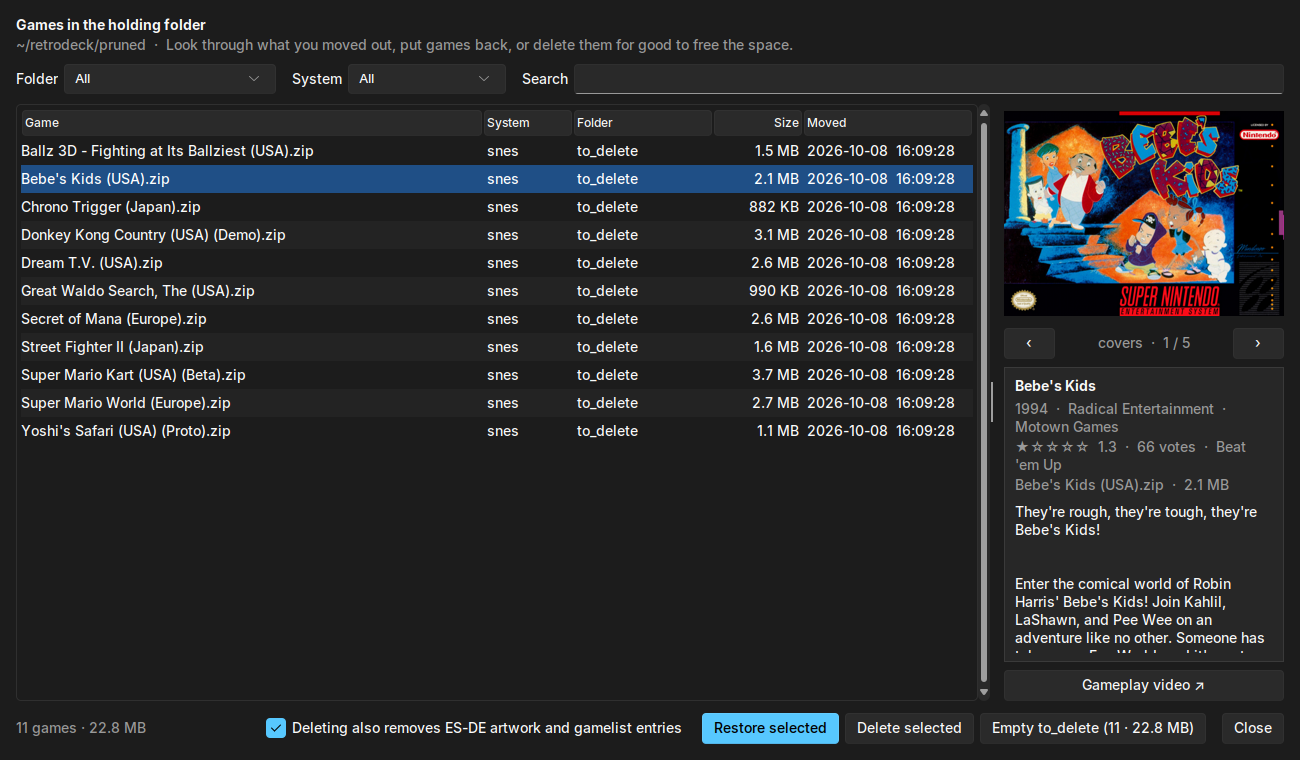
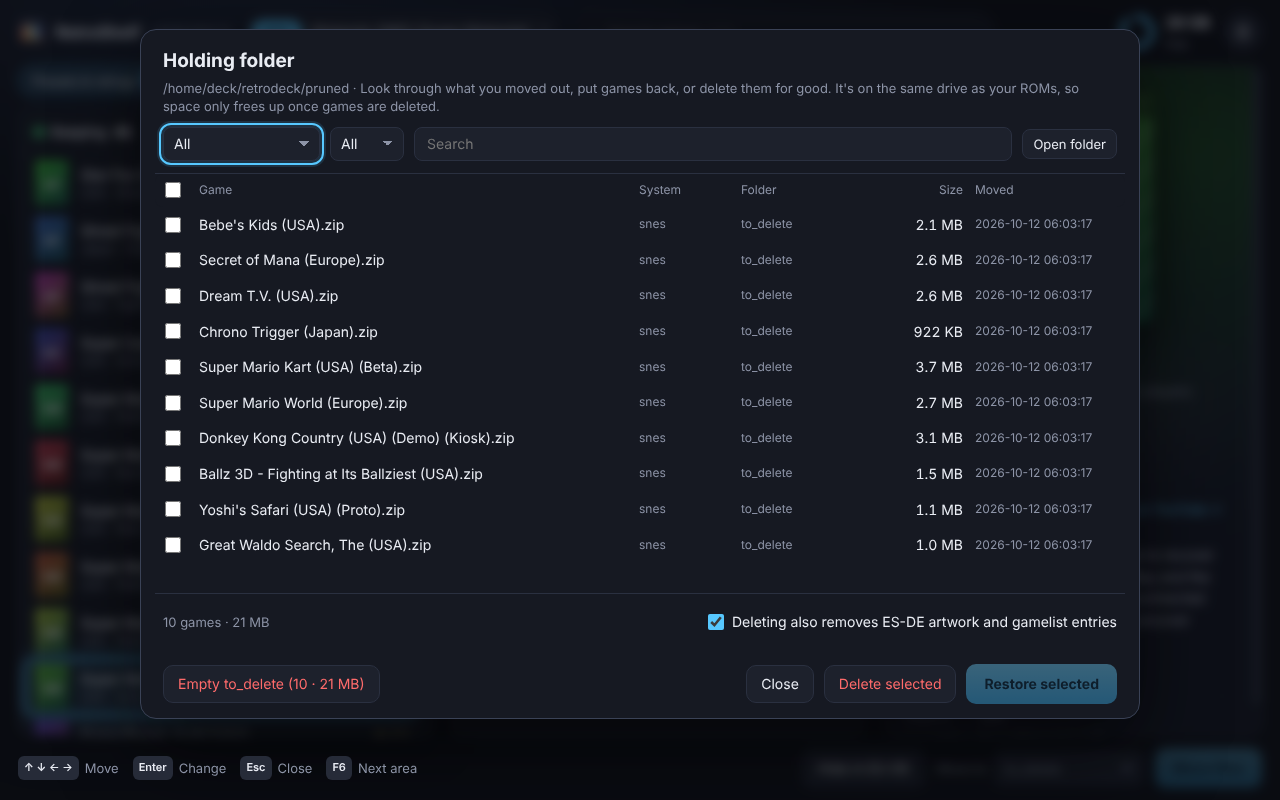
README: new screenshots of the app and an up-to-date description
Retakes every README screenshot from the app (they showed the old Tk
window) on a 52-game SNES demo library at Steam Deck size, and adds
Review, Import ROMs and Storage overview. Menu paths in the README now
match the regrouped ☰ menu, the requirements say what the app needs, and
app/README.md no longer calls the app unreleased. The Storage overview's
own text pointed at a Tools menu that no longer exists.

Claude-Session: https://claude.ai/code/session_0199qZRYXhb185Wx89AetE21

diff --git a/app/renderer/library-tools.js b/app/renderer/library-tools.js
@@ -72,7 +72,7 @@ async function openStorage() {
     const total = T.systems.reduce((n, s) => n + s.total, 0) || 1;
     $("st-systems").innerHTML = `<div class="trow head"><span>System</span><span class="num">Games</span><span class="num">Games' size</span>
       <span class="num" title="ES-DE's artwork, videos and manuals for the system">Media</span><span class="num">Total</span><span></span>
-      <span class="num" title="Disc images Tools → Compress games would turn into .chd / .rvz (usually a third to a half smaller)">Could compress</span></div>` +
+      <span class="num" title="Disc images ☰ → Library → This console → Compress games would turn into .chd / .rvz (usually a third to a half smaller)">Could compress</span></div>` +
       (T.systems.length ? T.systems.map((s) => `<div class="trow${s.code === T.sel ? " on" : ""}" data-code="${esc(s.code)}">
         <span class="nm" title="${esc(s.label)}">${esc(s.label)}</span><span class="num">${s.games.toLocaleString()}</span>
         <span class="num">${human(s.size)}</span><span class="num">${s.media ? human(s.media) : "—"}</span><span class="num">${human(s.total)}</span>
@@ -125,7 +125,7 @@ async function openStorage() {
       $("st-systems").querySelector(".trow.on")?.scrollIntoView({ block: "nearest" });
       const sum = (f) => T.systems.reduce((n, s) => n + s[f], 0), comp = sum("compressible");
       $("st-status").textContent = `${plural(T.systems.length, "system")}: ${human(sum("size"))} of games and ${human(sum("media"))} of media.` +
-        (comp ? ` ${human(comp)} of disc images could be compressed (Tools → Compress games).` : "");
+        (comp ? ` ${human(comp)} of disc images could be compressed (☰ → Library → This console → Compress games).` : "");
       const d = r.drive;
       $("st-drive").textContent = d && d.total ? `The drive with your ROMs: ${human(d.free)} free of ${human(d.total)} (${Math.round(100 * (d.total - d.free) / d.total)}% used)` : "";
       $("st-drive-bar").style.width = d && d.total ? `${100 * (d.total - d.free) / d.total}%` : "0";

diff --git a/README.md b/README.md
@@ -2,14 +2,16 @@
 
 # RetroShelf
 
-A desktop tool for tidying up an [ES-DE](https://es-de.org/) / [RetroDECK](https://retrodeck.net/) game library on
-Linux or Windows. Point it at your `roms` folder, pick a system, and it helps you decide what to keep, fills in metadata and
-artwork, gives your files consistent names, and installs PS3 / PS Vita / PSP games through NoPayStation.
+A desktop app for tidying up an [ES-DE](https://es-de.org/) / [RetroDECK](https://retrodeck.net/) game library on
+Linux, Steam Deck or Windows. Point it at your `roms` folder, pick a system, and it helps you decide what to keep, fills
+in metadata and artwork, gives your files consistent names, imports games from archives or a home server, and installs
+PS3 / PS Vita / PSP games through NoPayStation and free homebrew from several stores. It works with a mouse, a keyboard
+or a gamepad, and fits a Steam Deck's screen.
 
 Nothing is deleted unless you ask: pruned games are moved to a holding folder outside `roms`, every move and
 rename can be undone, and games only go for good when you delete them from the holding folder.
 
-![RetroShelf main window with a SNES library, Chrono Trigger's details, filters, and the games to keep and move](docs/screenshots/main.png)
+![RetroShelf's main window with a SNES library: the Keeping and Moving lists, three filters switched on, and Chrono Trigger's details](docs/screenshots/main.png)
 
 ## Features
 
@@ -55,14 +57,14 @@ rename can be undone, and games only go for good when you delete them from the h
   leaves them out of its menus (it marks them hidden in its gamelist, and turns off ES-DE's "Show hidden games"
   if it's on). Hidden games stay in Keeping, like played ones, and show "hidden in ES-DE"; right-click →
   **Show in ES-DE again** undoes it.
-- **Library → Save as an ES-DE collection…** (or right-click → **Add to an ES-DE collection…**) puts the Keeping
+- **☰ → Library → This console → Save as an ES-DE collection…** (or right-click → **Add to an ES-DE collection…**) puts the Keeping
   list, the Moving list or the selected games into an ES-DE custom collection, new or existing ("Best of SNES",
   "Party games" …). ES-DE then shows it next to the systems; RetroShelf turns it on in ES-DE's settings when ES-DE
   isn't running.
 - Each system remembers its patterns, filters and flips, so it opens the way you left it.
 - Multi-file games (cue/bin, multi-disc + m3u) are treated as one game and moved together.
-- **Library → Restore a move…** puts a whole batch of moved games back, including RPCS3 / Vita3K data that went with them.
-- **Library → Holding folder…** lists everything you've moved out, with artwork and details. Put games back one by one,
+- **☰ → Moved games → Restore a move…** puts a whole batch of moved games back, including RPCS3 / Vita3K data that went with them.
+- **☰ → Moved games → Holding folder…** lists everything you've moved out, with artwork and details. Put games back one by one,
   or delete them for good (with their ES-DE artwork and gamelist entries) to free the space.
 - A details panel shows the selected game's artwork, LaunchBox description, year, developer,
   rating and genres, plus a button that searches YouTube for gameplay videos. Artwork and videos always fill the
@@ -76,13 +78,13 @@ rename can be undone, and games only go for good when you delete them from the h
   (quick flicks add up into one longer glide). **☰ → Settings → Animations** turns them off.
 
 **Storage overview**
-- **Library → Storage overview…** (or click the free-space figure at the top) shows how much each system takes:
+- **☰ → Library → Storage overview…** shows how much each system takes:
   its games, its ES-DE media (artwork, videos, manuals), and how much of it is disc images that
-  **☰ → Library → This console → Compress games** could shrink. Pick a system to see its biggest games. Double-click a system or a
+  **Compress games** could shrink. Pick a system to see its biggest games. Double-click a system or a
   game to go to it in the main window.
 
 **Import ROMs**
-- **Import ROMs…** (top bar, or **Library → Import ROMs…**) is a bucket for games in whatever form you have them:
+- **☰ → Library → Import ROMs…** (Ctrl+I) is a bucket for games in whatever form you have them:
   zip / 7z / rar archives, disc images, loose ROMs, folders full of them. Put them in the `import` folder next to
   your `roms` folder (RetroShelf notices new files while the window is open), or add them from anywhere with
   **Add files…** / **Add a folder…** (which says how many games it found in the folder before listing them).
@@ -238,22 +240,38 @@ rename can be undone, and games only go for good when you delete them from the h
 
 <table>
   <tr>
-    <td width="50%"><img src="docs/screenshots/holding.png" alt="Holding folder window with a moved game's cover and
-      description"><br><sub><b>Holding folder</b>: review moved games, put them back or delete them for good.</sub></td>
-    <td width="50%"><img src="docs/screenshots/rename.png" alt="Rename preview turning set-numbered names into
-      No-Intro names"><br><sub><b>Rename files</b>: preview No-Intro style names before anything changes.</sub></td>
+    <td width="50%"><img src="docs/screenshots/review.png" alt="Review one at a time showing Super Metroid, with
+      Keep and Move buttons and Steam Deck button hints"><br><sub><b>Review one at a time</b>: keep or move each game,
+      here with a gamepad's buttons.</sub></td>
+    <td width="50%"><img src="docs/screenshots/import.png" alt="Import ROMs listing a zip, a cue sheet and loose ROMs
+      with the system found for each"><br><sub><b>Import ROMs</b>: each game's system is worked out before anything
+      moves.</sub></td>
   </tr>
   <tr>
-    <td colspan="2"><img src="docs/screenshots/light.png" alt="Main window in light mode with a genre filter
-      active"><br><sub><b>Light mode</b>, with a genre filter moving the fighting games.</sub></td>
+    <td width="50%"><img src="docs/screenshots/holding.png" alt="Holding folder window listing ten moved games"><br>
+      <sub><b>Holding folder</b>: put moved games back or delete them for good.</sub></td>
+    <td width="50%"><img src="docs/screenshots/rename.png" alt="Rename preview turning set-numbered and scene-style
+      names into No-Intro names"><br><sub><b>Rename files</b>: preview No-Intro style names before anything
+      changes.</sub></td>
+  </tr>
+  <tr>
+    <td width="50%"><img src="docs/screenshots/storage.png" alt="Storage overview with each system's size and its
+      biggest games"><br><sub><b>Storage overview</b>: what each system takes and what could be compressed.</sub></td>
+    <td width="50%"><img src="docs/screenshots/light.png" alt="Main window in the light theme with the Genres filter
+      open and Fighting picked"><br><sub><b>Light theme</b>, with a genre filter moving the fighting games.</sub></td>
   </tr>
 </table>
 
-<sub>Screenshots use a small demo library; artwork and descriptions come from the LaunchBox Games Database.</sub>
+<sub>Screenshots use a small demo library with descriptions from the LaunchBox Games Database. It has no scraped
+artwork, so the games show RetroShelf's stand-in covers; with ES-DE's media they show their box art.</sub>
 
 ## Requirements
 
-The app needs nothing else installed. The rest of this section is for the older Tk version.
+The app needs nothing else installed: Python and everything RetroShelf uses are inside, and it plays ES-DE's video
+clips itself. PS Vita installs need Vita3K (the RetroDECK flatpak or a standalone build); compressing games uses the
+chdman and dolphin-tool that come with RetroDECK.
+
+The rest of this section is for the older Tk version.
 
 - **Linux:** Python 3.9 or newer and Tk (`tkinter`). Most desktop distros ship both; on Debian / Ubuntu run
   `sudo apt install python3-tk`.
@@ -359,14 +377,16 @@ SNES and PlayStation games, a small offline LaunchBox database, and `HOME` point
 tests/run.sh                        # whole suite (uses xvfb-run when there's no display)
 py -m unittest discover -s tests -t . -v   # the same on Windows
 tests/run.sh -v tests.test_app      # just the end-to-end window tests
-tests/sandbox.py --run              # open RetroShelf on a throwaway library to try changes by hand
+tests/sandbox.py --run              # open the Tk RetroShelf on a throwaway library to try changes by hand
 tests/sandbox.py --screenshot a.png # same, headless: saves a screenshot (needs xvfb and ImageMagick)
+(cd app && npm install && npm run smoke)   # the app: start it, check the window and helper work together, quit
 ```
 
 The tests need Python with Tk (`python3-tk`); the window tests also need a display or `xvfb-run`. CI runs them
 on both Linux and Windows.
 
-RetroShelf is being moved to Electron, in `app/` (see [app/README.md](app/README.md)). It isn't released yet.
+The app is built with Electron, in `app/` (see [app/README.md](app/README.md)); the work itself is done by the Python
+code in `lib/`, which both versions share.
 
 ## Credits
 
@@ -374,4 +394,4 @@ RetroShelf is being moved to Electron, in `app/` (see [app/README.md](app/README
 - Package lists: [NoPayStation](https://nopaystation.com/)
 - Homebrew: [Homebrew Hub](https://hh.gbdev.io), [itch.io](https://itch.io), [PDRoms](https://pdroms.de); free arcade
   ROMs: [MAMEDEV](https://www.mamedev.org/roms/)
-- Theme: [Sun Valley ttk theme](https://github.com/rdbende/Sun-Valley-ttk-theme) (MIT, bundled in `vendor/`)
+- Theme of the older Tk version: [Sun Valley ttk theme](https://github.com/rdbende/Sun-Valley-ttk-theme) (MIT, bundled in `vendor/`)

diff --git a/app/README.md b/app/README.md
@@ -1,24 +1,20 @@
-# RetroShelf's new app (Electron, in progress)
+# RetroShelf's app (Electron)
 
-RetroShelf is moving from Tk to Electron (the plan: Electron draws the windows, RetroShelf's Python code keeps doing
-the work). This folder is that app. So far it has the main window: pick a system, see its games in Keeping and
-Moving, sort them with presets, ratings, genres, regions and patterns, flip games across by hand (keyboard, mouse or
-gamepad), see a game's artwork, video and LaunchBox details, and move the Moving list into the holding folder. The
-☰ menu has the holding folder (restore or delete moved games), Restore a move, Review one at a time, saving games
-as an ES-DE collection, region priority, export and rescan; right-click a game to hide it in ES-DE, add it to a
-collection or pick its LaunchBox match. The
-Tk app (`retroshelf.py`) is still the one that's released, until this one can do everything it does.
+This folder is RetroShelf's app: Electron draws the windows and RetroShelf's Python code (`lib/`) does the work,
+through a helper process. It's the version that's released; the older Tk app (`retroshelf.py`) still runs but gets no
+new features. What it does is in the [main README](../README.md).
 
-It keeps its own settings (config.json, moves.json, LaunchBox's cache/) in its data folder (`~/.config/RetroShelf` on
-Linux, `%APPDATA%\RetroShelf` on Windows), in the Tk app's formats; copy the Tk app's files there to carry its
-settings across.
+It keeps its settings (config.json, moves.json, LaunchBox's cache/) in its data folder (`~/.config/RetroShelf` on
+Linux, `%APPDATA%\RetroShelf` on Windows), in the Tk app's formats. The first time it runs it brings the Tk app's
+settings over by itself (`lib/handoff.py`).
 
 ```
 main.js            the app: opens the window, runs the helper, answers the window's requests
 helper.js          runs the Python helper and matches its answers to requests
 preload.js         what the window is allowed to ask for (window.retroshelf)
 renderer/          the window: app.js (the main window), list.js (the game lists), sheets.js (holding folder,
-                   restore, Review, collections, region priority, LaunchBox match), the ☰ menu's tool windows
+                   restore, Review, collections, region priority, LaunchBox match), jobs.js (background jobs and
+                   the footer that shows them), bindings.js (your own buttons and keys), the ☰ menu's tool windows
                    (tools.js: scrape, rename; file-tools.js: compress, import; library-tools.js: storage, health
                    check, duplicates; stores.js: NoPayStation, homebrew stores; setup.js: first-run setup;
                    settings.js: settings and help), pad.js (the gamepad and keyboard cursor outside the lists,
@@ -28,7 +24,7 @@ helper/helper.py   the Python helper: JSON lines over stdin / stdout, calling li
 helper/rpc.py      its plumbing: @method, events, long jobs with progress and Stop
 helper/tool_*.py   each tool window's Python side
 helper/*.spec      how PyInstaller bundles the helper (and lib/) for the built app
-updates.js         self-updates from GitHub Releases; off until this app is the one released
+updates.js         self-updates from GitHub Releases
 ```
 
 ## Running it from a checkout
